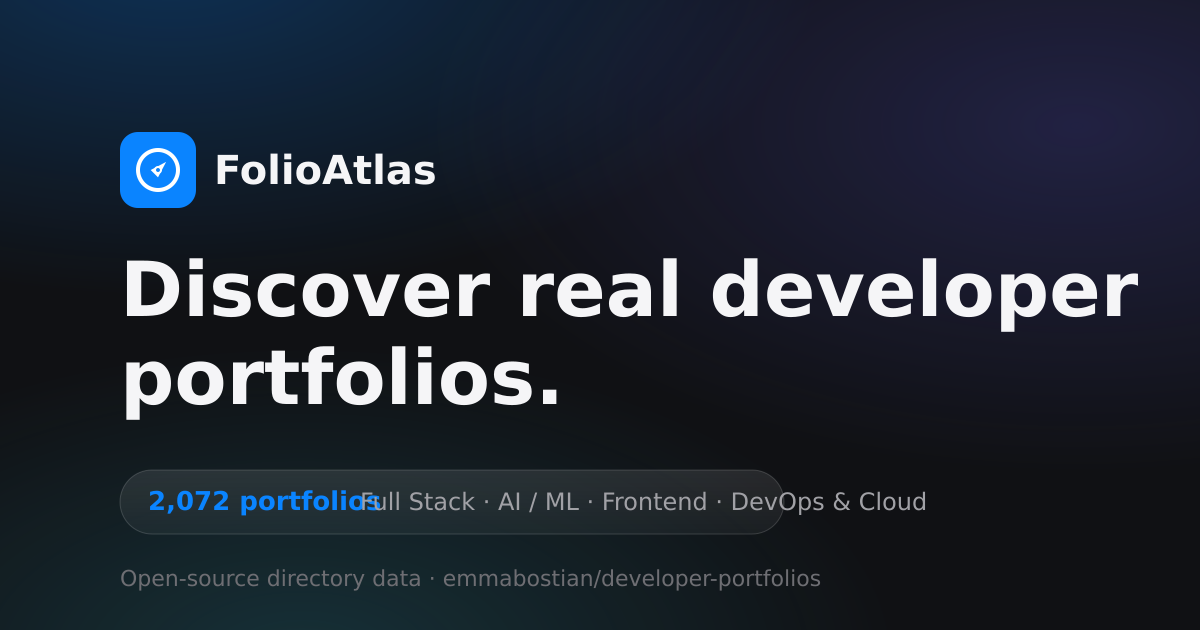
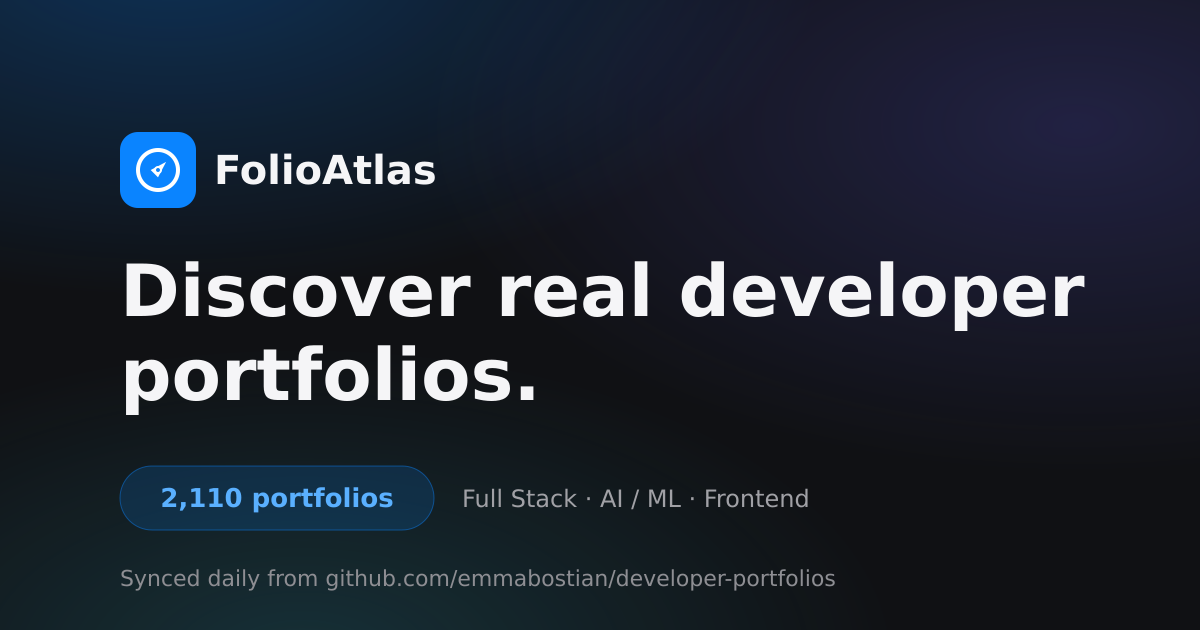
release: 1.0.0 — public launch
- Remove the Beta badge and footer note (RELEASE_STAGE = null)
- Redraw the social preview image: current count (2,110), no overlap
  between the count pill and focus areas, "Synced daily" source line
- Daily sync regenerates og.png so shared links stay current

Claude-Session: https://claude.ai/code/session_01LhY9ZFaDaQg9NoaPmocCG1

diff --git a/scripts/generate-og.ts b/scripts/generate-og.ts
@@ -2,6 +2,7 @@
  * FolioAtlas — Open Graph social image generator.
  * Renders a restrained 1200×630 brand card using the ACTUAL index stats
  * (no invented numbers) and writes public/og.png.
+ * Runs in the daily sync workflow so the count on shared links stays current.
  * Usage: bun scripts/generate-og.ts
  */
 import sharp from "sharp";
@@ -17,9 +18,15 @@ const index = JSON.parse(readFileSync(join(ROOT, "src", "data", "portfolios.gene
 
 const count = index.stats.valid.toLocaleString("en-US");
 const topTech = index.technologies
-  .slice(0, 4)
+  .slice(0, 3)
   .map((t) => t.label)
-  .join("   ·   ");
+  .join("  ·  ");
+
+// Lay the stat row out from text length (DejaVu Sans is the fallback font on
+// CI/Linux; ~0.62em per bold glyph, ~0.56em per regular glyph at these sizes).
+const countLabel = `${count} portfolios`;
+const pillWidth = Math.round(countLabel.length * 26 * 0.62 + 56);
+const techX = 120 + pillWidth + 28;
 
 /** Escape XML special characters for safe SVG interpolation. */
 const esc = (s: string) => s.replace(/&/g, "&amp;").replace(/</g, "&lt;").replace(/>/g, "&gt;").replace(/"/g, "&quot;");
@@ -62,18 +69,18 @@ const svg = `
   <text x="214" y="184" font-family="-apple-system, 'Segoe UI', 'DejaVu Sans', sans-serif" font-size="40" font-weight="600" fill="#F5F5F7">FolioAtlas</text>
 
   <!-- headline -->
-  <text x="120" y="316" font-family="-apple-system, 'Segoe UI', 'DejaVu Sans', sans-serif" font-size="76" font-weight="700" fill="#F5F5F7">Discover real developer</text>
-  <text x="120" y="404" font-family="-apple-system, 'Segoe UI', 'DejaVu Sans', sans-serif" font-size="76" font-weight="700" fill="#F5F5F7">portfolios.</text>
+  <text x="120" y="316" font-family="-apple-system, 'Segoe UI', 'DejaVu Sans', sans-serif" font-size="72" font-weight="700" fill="#F5F5F7">Discover real developer</text>
+  <text x="120" y="400" font-family="-apple-system, 'Segoe UI', 'DejaVu Sans', sans-serif" font-size="72" font-weight="700" fill="#F5F5F7">portfolios.</text>
 
-  <!-- stat pill -->
-  <g transform="translate(120 470)">
-    <rect width="664" height="64" rx="32" fill="url(#glass)" stroke="#FFFFFF" stroke-opacity="0.16"/>
-    <text x="28" y="40" font-family="-apple-system, 'Segoe UI', 'DejaVu Sans', sans-serif" font-size="26" font-weight="600" fill="#0A84FF">${count} portfolios</text>
-    <text x="240" y="40" font-family="-apple-system, 'Segoe UI', 'DejaVu Sans', sans-serif" font-size="24" fill="#A1A1A6">${esc(topTech)}</text>
+  <!-- stat pill + focus areas -->
+  <g transform="translate(120 466)">
+    <rect width="${pillWidth}" height="64" rx="32" fill="#0A84FF" fill-opacity="0.16" stroke="#0A84FF" stroke-opacity="0.45"/>
+    <text x="${pillWidth / 2}" y="41" text-anchor="middle" font-family="-apple-system, 'Segoe UI', 'DejaVu Sans', sans-serif" font-size="26" font-weight="600" fill="#5AB0FF">${esc(countLabel)}</text>
   </g>
+  <text x="${techX}" y="507" font-family="-apple-system, 'Segoe UI', 'DejaVu Sans', sans-serif" font-size="24" fill="#A1A1A6">${esc(topTech)}</text>
 
   <!-- source line -->
-  <text x="120" y="586" font-family="-apple-system, 'Segoe UI', 'DejaVu Sans', sans-serif" font-size="22" fill="#6E6E73">Open-source directory data · ${esc(index.source.repository)}</text>
+  <text x="120" y="586" font-family="-apple-system, 'Segoe UI', 'DejaVu Sans', sans-serif" font-size="22" fill="#8E8E93">Synced daily from github.com/${esc(index.source.repository)}</text>
 </svg>
 `;
 

diff --git a/src/lib/site/creator.ts b/src/lib/site/creator.ts
@@ -10,4 +10,4 @@ export const CREATOR = {
 } as const;
 
 /** Release stage shown as a badge in the navigation and a note in the footer. Set to null at launch. */
-export const RELEASE_STAGE: string | null = "Beta";
+export const RELEASE_STAGE: string | null = null;

diff --git a/CHANGELOG.md b/CHANGELOG.md
@@ -2,7 +2,14 @@
 
 All notable changes to FolioAtlas are documented here. Format follows
 [Keep a Changelog](https://keepachangelog.com/en/1.1.0/); versioning is pragmatic
-(0.x until the 1.0 public launch).
+(semantic versioning from 1.0.0).
+
+## [1.0.0] — 2026-11-11 (public launch)
+
+### Changed
+- Out of beta: the Beta badge and footer note are removed (`RELEASE_STAGE = null`).
+- Social preview image (`public/og.png`) redrawn: the count pill no longer overlaps the focus
+  areas, and the daily sync regenerates it so shared links always show the current count.
 
 ## [0.5.2] — 2026-11-11 (automatic sync fixed)
 
